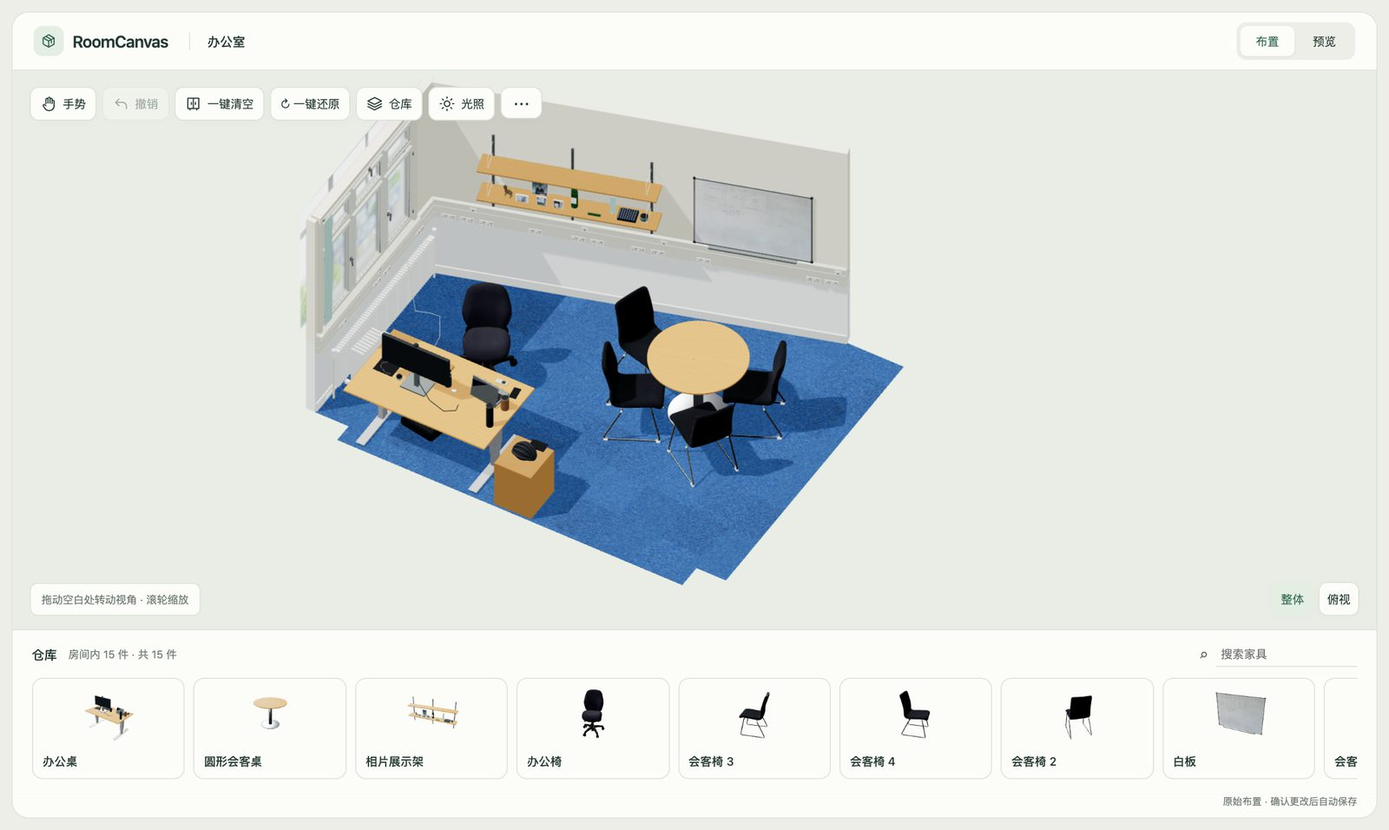
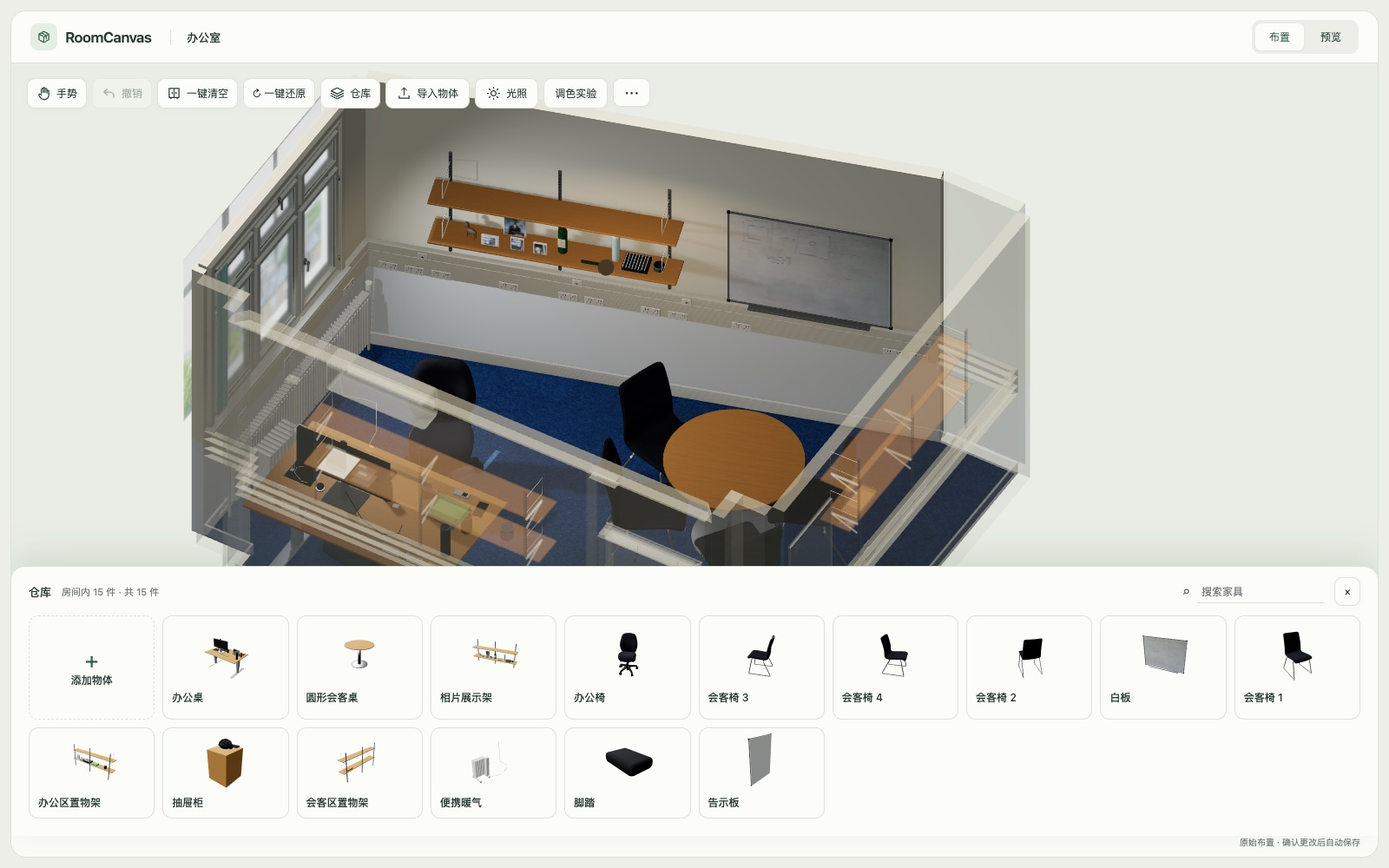
docs: a fuller README, handoff for #26–#29, a project-wide check; the import-lighting probe renders only the object (#30)
README rewritten in the style of common open-source projects (features, office screenshots, quick start for every part, controls, roadmap, contributors); the LiteReality-Agent changes move to docs/ROOM_RECONSTRUCTION.md. HANDOFF covers #26–#29, the 7862 restart and the 2026-10-24 check. The lab-only lightResponseProbe now renders only the probed object, so check_import_lighting.mjs passes again.

diff --git a/web/editor/scene-editor.js b/web/editor/scene-editor.js
@@ -2163,12 +2163,15 @@ function installLightingLab() {
       const p = box.getCenter(new THREE.Vector3()).project(camera);
       const lights = scene.children.filter(object => object.isLight), intensities = lights.map(light => light.intensity), environment = scene.environment;
       const frame = () => {renderer.render(scene,camera); return renderer.domElement.toDataURL('image/png');};
+      // Measure the object alone: lit see-through walls or furniture in front would respond to the lights.
+      const own = new Set(); entities.get(id).group.traverse(object => own.add(object));
+      const hidden = []; scene.traverse(object => {if (object.isMesh && object.visible && !own.has(object)) {object.visible = false; hidden.push(object);}});
       try {
         const lit = frame();
         lights.forEach(light => {light.intensity=0;}); scene.environment=null;
         const dark=frame(), size=renderer.getDrawingBufferSize(new THREE.Vector2());
         return {lit,dark,center:[Math.round((p.x*.5+.5)*size.x),Math.round((-p.y*.5+.5)*size.y)]};
-      } finally {lights.forEach((light,index) => {light.intensity=intensities[index];});scene.environment=environment;renderer.shadowMap.needsUpdate=true;requestRender();}
+      } finally {for (const object of hidden) object.visible = true; lights.forEach((light,index) => {light.intensity=intensities[index];});scene.environment=environment;renderer.shadowMap.needsUpdate=true;requestRender();}
     },
     metrics: () => renderMetrics.snapshot(),
     resetMetrics: () => renderMetrics.reset(),

diff --git a/web/editor/index.html b/web/editor/index.html
@@ -213,4 +213,4 @@
  <div class="rc-footer-status"><span id="status" class="rc-sr-only" aria-live="polite">正在加载房间模型…</span><span id="save-state">更改确认后自动保存</span></div>
 </footer>
 
-</div><script type="module" src="./editor.js?v=app-51"></script></body></html>
+</div><script type="module" src="./editor.js?v=app-52"></script></body></html>

diff --git a/web/editor/editor.js b/web/editor/editor.js
@@ -1,2 +1,2 @@
 // Entry point: sample-based UI with the existing office scene adapter.
-import './scene-editor.js?v=app-51';
+import './scene-editor.js?v=app-52';

diff --git a/README.md b/README.md
@@ -1,30 +1,103 @@
 <div align="center">
 
-<img src="web/icon.svg" width="64" alt="">
+<img src="web/icon.svg" width="72" alt="RoomCanvas">
 
 # RoomCanvas
 
 **扫描你的房间，在浏览器里按真实尺寸重新布置。**
 
-[快速开始](#快速开始) · [怎么做的](#怎么做的) · [文档](#文档)
+[![License](https://img.shields.io/badge/license-Apache--2.0-2f6b4f)](LICENSE) [![Three.js](https://img.shields.io/badge/Three.js-r180-1f2937)](https://threejs.org/) [![Python](https://img.shields.io/badge/Python-3-3776ab)](https://www.python.org/) [![Node.js](https://img.shields.io/badge/Node.js-22.12%2B-5fa04e)](https://nodejs.org/) [![Platform](https://img.shields.io/badge/platform-Web%20%7C%20Android-6b7280)](#快速开始)
+
+[功能](#功能) · [截图](#截图) · [快速开始](#快速开始) · [怎么用](#怎么用) · [工作原理](#工作原理) · [开发](#开发与测试) · [路线图](#路线图) · [文档](#文档)
 
 </div>
 
-![RoomCanvas 编辑器：LiteReality 官方样例办公室](docs/images/editor-office.jpg)
+![RoomCanvas 编辑器：LiteReality 官方样例办公室，底部是仓库](docs/images/editor-office.jpg)
 
-用 iPhone（LiDAR + RoomPlan）扫一遍房间，RoomCanvas 把它重建成带纹理、尺寸真实的三维模型，每件家具都是单独的、可以挪动的物体。再拍几张照片把新东西加进来，用鼠标或摄像头手势摆放，看放不放得下、好不好看。
+用 iPhone（LiDAR + RoomPlan）扫一遍房间，RoomCanvas 把它重建成带纹理、尺寸真实的三维模型，每件家具都是独立、可以挪动的物体。想买的新东西拍几张照片就能按真实大小加进来；用鼠标或摄像头手势摆放，碰撞和是否放稳实时检查，看放不放得下、好不好看。
+
+- **真实尺寸**：房间和家具来自扫描重建，新物体按一条实测边长标定，摆进去的就是真实大小。
+- **开箱即用**：网页编辑器是纯前端，没有构建步骤，有 Python 就能打开两个示例房间。
+- **双手操作**：浏览器里用摄像头识别手势，画面只在本机处理，不上传。
+- **一个仓库，从扫描到手机**：房间重建、物体重建、网页编辑器、手势、Android 漫游 App 都在这里。
 
 ## 功能
 
-- **真实尺寸的房间**：LiteReality 从扫描重建房间和家具，Agent 用 GPT-6 Astra 审图、建模、摆放；小物件逐件判断是舍弃、程序化建模还是用 TRELLIS 重建。
-- **每件家具都能动**：移动、旋转、贴墙、收进仓库、一键清空或还原；碰撞和是否放稳实时检查；可撤销，布局自动保存。
-- **门和柜门能打开**：切到“预览”，点一下门、柜门或窗。
-- **拍照添加物体**：在仓库里传 3 张以上照片，服务器抠图、重建，填一条实测边长就按真实大小放进房间。
-- **手势操作**：打开摄像头，左手比 1 / 2 / 3 / 4 切换移动、抬高、场景缩放、旋转；左手捏合环绕，右手操作家具，松手保留预览、竖拇指确认。骨架与指尖辅助显示，识别在本机完成，画面不上传。
+<table>
+<tr><td width="50%" valign="top">
+
+**🏠 房间重建**
+
+- LiteReality 从扫描重建房间结构和家具，Agent 用 GPT-6 Astra 审图、建模、摆放
+- 小物件逐件判断：舍弃、程序化建模，或用 TRELLIS 重建
+- 门、柜门、窗、升降桌带关节，能打开
+
+</td><td width="50%" valign="top">
+
+**🪑 布置编辑器**
+
+- 选中家具：移动、旋转、升降、换墙、收进仓库再放回
+- 逐三角面的碰撞和支撑检测，重网格的检查在后台线程
+- 一键清空 / 一键还原，撤销重做，布局自动保存，可导入导出 JSON
+- 近侧墙和挡视线的高家具自动变半透明
+
+</td></tr>
+<tr><td valign="top">
+
+**📷 拍照添加物体**
+
+- 仓库里“添加物体”：上传照片 → 抠图确认 → 服务器重建
+- 预览里看 X / Y / Z 坐标轴，填一条实测边长就按真实大小放进房间
+- 重建在 GPU 服务器上跑，关掉对话框、刷新页面都不影响
+
+</td><td valign="top">
+
+**💡 光照**
+
+- 普通光照，以及早晨 / 中午 / 下午 / 夜间时段
+- 中央顶灯可开关、调照射角度，按房间记住
+- 环境光、阴影和静态环境遮蔽（AO），静止时才补算
+- 曝光、白平衡、对比度、饱和度调色（实验）
+
+</td></tr>
+<tr><td valign="top">
+
+**✋ 手势**
+
+- 左手比 1 / 2 / 3 / 4 切换移动、抬高、缩放、旋转
+- 右手捏住家具拖动，竖起大拇指确认放下
+- 左手捏合环绕视角，双手捏合缩放场景
+- 编辑器内置，不用额外安装
+
+</td><td valign="top">
+
+**📱 Android 漫游**
+
+- 导入房间模型，横屏第一人称在房间里走一圈
+- 方向键移动、滑屏转向，0.5× / 1× / 2× 速度
+- 点柜门、窗、门开关
+
+</td></tr>
+</table>
+
+## 截图
+
+<table>
+<tr>
+<td width="50%"><img src="docs/images/office-placement.jpg" alt="摆放家具"><br><sub><b>摆放</b>：选中办公椅，悬浮预览、摇杆移动、圆盘旋转，标出落点</sub></td>
+<td width="50%"><img src="docs/images/office-preview.jpg" alt="预览模式"><br><sub><b>预览</b>：点一下就打开窗户、升起升降桌，桌上的东西跟着动</sub></td>
+</tr>
+<tr>
+<td><img src="docs/images/office-night.jpg" alt="夜间光照"><br><sub><b>夜间</b>：日光关掉，中央顶灯照亮房间</sub></td>
+<td><img src="docs/images/add-object.jpg" alt="添加物体"><br><sub><b>添加物体</b>：照片 → 抠图 → 重建 → 尺寸，四步放进房间</sub></td>
+</tr>
+</table>
+
+截图都用 LiteReality 官方样例办公室；另一个示例房间 `room3` 是私人卧室，不放在这里。
 
 ## 快速开始
 
-只看网页不需要安装任何东西，有 Python 3 就行：
+### 1. 打开网页（只需要 Python 3）
 
 ```bash
 git clone https://github.com/innovationasuna/RoomCanvas.git
@@ -32,52 +105,154 @@ cd RoomCanvas
 python3 web/scripts/serve.py
 ```
 
-打开 <http://127.0.0.1:7880/web/>，选一个示例房间（卧室 `room3`、办公室 `office`）开始布置。
+打开 <http://127.0.0.1:7880/web/>，选一个示例房间：卧室 `room3` 或办公室 `office`。布局存在浏览器里，刷新不会丢。
 
-“添加物体”和“导入物体”需要连接 ViewForge 后端（物体重建服务，跑在 GPU 服务器上），默认通过 SSH 隧道 `127.0.0.1:7865`，见 [物体重建说明](docs/OBJECT_RECONSTRUCTION.md)。
+### 2. 连接物体重建服务（可选）
 
-## 怎么做的
+“添加物体”和“导入物体”要连到物体重建后端（跑在 GPU 服务器上）。`serve.py` 默认把这些请求转给本机 `127.0.0.1:7865`，用 SSH 隧道接过去：
+
+```bash
+ssh -N -L 127.0.0.1:7865:<后端监听地址>:7862 <SSH 主机>
+```
+
+后端怎么部署见 [物体重建说明](docs/OBJECT_RECONSTRUCTION.md)。不连也能正常布置房间原有的家具。
+
+### 3. 手势
+
+在编辑器工具栏点 **手势**，允许摄像头即可，识别代码已经打包在 `web/vendor/gesture/`。要调试独立的识别页：
+
+```bash
+sh scripts/gesture.sh install   # 第一次，需要 Node.js 22.12+
+sh scripts/gesture.sh dev       # 打开 http://127.0.0.1:8800/roomcanvas.html
+```
+
+### 4. Android App
+
+```bash
+cd android-app
+./gradlew :app:assembleDebug    # JDK 17 + Android SDK，产出 app/build/outputs/apk/debug/
+```
+
+装到手机上，导入 `samples/office/Room.glb` 之类的房间模型即可。华为手机可用 AR Engine 的运动跟踪；其他手机提示一次后照常用方向键漫游。
+
+### 5. 重建自己的房间
+
+在 GPU 服务器上从手机扫描跑一遍 LiteReality + Astra，产出 `Room.glb`，再用 `web/scripts/room_objects.py` 生成物体清单。完整步骤见 [房间重建](docs/ROOM_RECONSTRUCTION.md)。
+
+## 怎么用
+
+### 鼠标和键盘
+
+| 操作 | 作用 |
+|---|---|
+| 拖动空白处 / 滚轮 | 转动视角 / 缩放 |
+| 点家具或仓库卡片 | 选中，开始摆放：跟着鼠标走，单击锁定后用摇杆、圆盘、升高 / 降低微调 |
+| `R` | 摆放时旋转 |
+| 方向键、`PageUp` / `PageDown` | 选中的家具逐步挪动、升降 |
+| `Enter` / `Esc` | 放置并落下 / 取消 |
+| `Ctrl`/`⌘` + `Z`，加 `Shift` | 撤销，重做 |
+| `/` | 打开仓库并搜索家具 |
+| 右上角“预览” | 点门、柜门、窗开合；回“布置”全部关上 |
+| 右下角“整体” / “俯视” | 切换视角 |
+
+### 手势
+
+| 手 | 动作 | 作用 |
+|---|---|---|
+| 左手 | 比 1 / 2 / 3 / 4 | 切换模式：移动 / 抬高 / 场景缩放 / 旋转 |
+| 左手 | 捏合拖动 | 环绕视角，可以和右手同时进行 |
+| 右手 | 捏住家具或仓库卡片拖动 | 移动、抬高或旋转；松手后家具停成预览 |
+| 右手 | 竖起大拇指约 0.5 秒 | 确认放置（放置按钮和 `Enter` 也可以） |
+| 双手 | 缩放模式下同时捏合，拉开 / 靠近 | 放大 / 缩小场景 |
+
+手指向按钮捏合就是点击。仓库默认收起，要先捏顶部的“仓库”按钮再拖卡片。手跟丢时操作冻结，回来后松手重新抓。完整说明见 [手势接入](gesture/docs/roomcanvas-integration.md)。
+
+### 网址参数
+
+| 参数 | 作用 |
+|---|---|
+| `?room=<id>` | 打开 `web/rooms.json` 里的房间；`?scene=<目录>` 打开任意房间目录 |
+| `&time=balanced\|morning\|noon\|afternoon\|night` | 光照时段，默认 `noon` |
+| `&lighting=off` | 完整的原始光照，用来对比 |
+| `&ao=off` / `&ao=n8ao` | 关闭环境遮蔽 / 改用 N8AO |
+| `&indoor=off` | 打开时关掉顶灯 |
+
+## 工作原理
 
 ```mermaid
 flowchart LR
   scan["房间扫描<br/>LiDAR + RoomPlan"] --> room["房间重建<br/>LiteReality + Astra"]
   room --> glb["Room.glb<br/>room_objects.json"]
-  photos["物体照片"] --> object["物体重建<br/>ViewForge：BiRefNet + DA3 + MV-SAM3D"]
+  photos["物体照片"] --> object["物体重建<br/>BiRefNet + DA3 + MV-SAM3D"]
   glb --> editor["网页编辑器<br/>Three.js"]
   object --> editor
   camera["摄像头"] --> gesture["手势识别<br/>MediaPipe"] --> editor
+  glb --> app["Android 漫游 App<br/>SceneView"]
 ```
 
-| 目录 | 做什么 |
-|---|---|
-| [`room-reconstruction/`](room-reconstruction/) | 房间重建：[LiteReality-Agent](https://github.com/LiteReality/LiteReality-Agent) 官方代码，Agent 改用 Codex（GPT-6 Astra），加了 3090 运行脚本和小物件这一步 |
-| [`object-reconstruction/`](object-reconstruction/) | 物体重建（ViewForge）：照片 → 抠图 → 多视角重建 → 尺寸标定，无界面的重建/标定 API；旧界面在 `legacy/` 弃用归档 |
-| [`web/`](web/) | RoomCanvas 网站：房间主页、编辑器、本机服务 `serve.py` |
-| [`gesture/`](gesture/) | 浏览器手势识别；编辑器内置的识别代码从这里打包 |
-| [`samples/`](samples/) | 两个示例房间：`room3`（手机扫描的卧室）、`office`（LiteReality 官方样例） |
+每个房间就是一个目录里的两个文件：`Room.glb`（重建出的模型）和 `room_objects.json`（哪些是墙、门窗、固定设施，哪些是能挪的家具，哪些东西一起动，哪些部件能打开）。编辑器只读这两个文件，所以任何按同样格式导出的房间都能打开。
+
+| 模块 | 做什么 | 技术 |
+|---|---|---|
+| [`room-reconstruction/`](room-reconstruction/) | 房间重建，加了 3090 运行脚本和小物件这一步 | [LiteReality-Agent](https://github.com/LiteReality/LiteReality-Agent)、Codex（GPT-6 Astra）、Blender、TRELLIS.2 |
+| [`object-reconstruction/`](object-reconstruction/) | 物体重建（ViewForge）：照片 → 抠图 → 多视角重建 → 尺寸标定，只提供 API | Starlette、BiRefNet、DA3、MV-SAM3D |
+| [`web/`](web/) | 主页、布置编辑器、本机服务 `serve.py` | Three.js r180，无构建 |
+| [`gesture/`](gesture/) | 浏览器手势识别，编辑器内置的识别代码从这里打包 | TypeScript、Vite、MediaPipe |
+| [`android-app/`](android-app/) | Android 房间漫游 | Kotlin、SceneView / Filament、华为 AR Engine |
+| [`samples/`](samples/) | 示例房间：`room3`（手机扫描的卧室）、`office`（LiteReality 官方样例） | |
+
+## 开发与测试
+
+网页不用装依赖（Node 24、Python 3）：
+
+```bash
+node --test 'web/editor/tests/*.mjs'                         # 编辑器单测
+python3 -m unittest discover -s web/scripts                  # 本机服务、物体清单
+node web/scripts/check_room.mjs --scene-dir samples/office   # 用真实模型检查碰撞、支撑、关节
+```
+
+手势、物体重建 API、房间重建和 Android 的检查命令，以及分支和合并流程，见 [参与开发](CONTRIBUTING.md)。CI 会扫描全部历史里的密钥，再跑房间重建、网页、物体 API 和手势四组检查。
+
+## 路线图
+
+- [x] 扫描 → 真实尺寸的房间（LiteReality + Astra）
+- [x] 网页里布置家具：碰撞、支撑、撤销、自动保存
+- [x] 门、柜门、窗能打开
+- [x] 拍几张照片添加物体，按实测尺寸放进房间
+- [x] 摄像头双手手势
+- [x] 时段光照、顶灯和环境遮蔽
+- [x] Android 第一人称漫游
+- [ ] 补拍：给已重建的物体补照片再重建
+- [ ] 清空房间，导出空房间
+- [ ] 给一个商品链接，找多视角图和尺寸重建
+- [ ] 网页上传扫描，服务器排队重建房间，并降低成本
+- [ ] 手机 App 直接扫描房间
 
 ## 文档
 
-- [网页说明](web/README.md)：编辑器的操作、手势、导入和添加物体，开发和测试
-- [房间重建](docs/ROOM_RECONSTRUCTION.md)：在 3090 上重建一个房间、小物件这一步、接到网页
-- [物体重建与手势](docs/OBJECT_RECONSTRUCTION.md)：ViewForge 物体后端、标定接口、SSH 隧道和 RoomCanvas 手势
-- [光影增强](web/README.md#通用光影增强)：光照档位、环境光、静态 AO 和验收；[光影调研](web/README.md#光影调研)：开源方案、版本兼容性、低耦合接入方式和实验任务
-- [参与开发](CONTRIBUTING.md)：分支、检查、合并流程
-- [交接文档](docs/HANDOFF.md)：当前进度、服务器目录和待办
-
-## 对 LiteReality-Agent 改了什么
-
-基线是官方 `28ffe1f4`（2026-10-03），即本仓库的第一个提交，原样放在 `room-reconstruction/`。之后：
-
-- **所有 Agent 改用 Codex**：默认 provider 从 claude 改为 codex（`models.env`、`settings.py`、`agent/providers/base.py`）；Codex 会话支持附图（`providers/codex.py`）；新增 `agent/providers/vision.py`，在建模路线分类、椅子分组、程序化完整性检查、布局 Agent 四处看图。provider 设回 claude 时仍走官方原来的代码。
-- **新增、不改官方文件**：3090 运行脚本 `room-reconstruction/server/`；小物件这一步 `pipeline/realism_authoring/small_objects/`（复用官方的证据图、参考图、TRELLIS 启动器和看图问答）。
-- **CI**：`.github/workflows/ci.yml` 先用 gitleaks 扫描全部历史里的密钥，再跑官方测试和网页测试。
-
-逐行改动看提交 2。
+| 文档 | 内容 |
+|---|---|
+| [网页说明](web/README.md) | 编辑器的全部操作、房间文件格式、光照参数和调研、测试、已知问题 |
+| [房间重建](docs/ROOM_RECONSTRUCTION.md) | 在 GPU 服务器上重建一个房间、小物件这一步、接到网页，以及对 LiteReality-Agent 的改动 |
+| [物体重建](docs/OBJECT_RECONSTRUCTION.md) | 物体后端的部署、接口和 SSH 隧道 |
+| [手势接入](gesture/docs/roomcanvas-integration.md) | 手势识别、协议和操作细节 |
+| [参与开发](CONTRIBUTING.md) | 分支、检查、合并流程 |
+| [交接文档](docs/HANDOFF.md) | 当前进度、服务器目录和待办 |
 
 ## 隐私
 
-仓库是私有的。**`samples/room3` 是私人卧室**，`Room.glb` 和缩略图来自实拍照片，只给协作者用，不要转发；仓库要公开前必须先从历史里删掉它。原始扫描、照片、含相机轨迹的 `room_layout.json` 都不进仓库。
+仓库是私有的。**`samples/room3` 是私人卧室**，`Room.glb` 和缩略图来自实拍照片，只给协作者用，不要转发；仓库要公开前必须先从历史里删掉它。原始扫描、照片、含相机轨迹的 `room_layout.json` 都不进仓库。手势识别只在本机浏览器里做，摄像头画面不上传。
+
+## 贡献者
+
+<table>
+<tr>
+<td align="center"><a href="https://github.com/innovationasuna"><img src="https://github.com/innovationasuna.png" width="64" alt=""><br><sub>innovationasuna</sub></a></td>
+<td align="center"><a href="https://github.com/jbykkk"><img src="https://github.com/jbykkk.png" width="64" alt=""><br><sub>jbykkk</sub></a></td>
+<td align="center"><a href="https://github.com/AWHYhuh"><img src="https://github.com/AWHYhuh.png" width="64" alt=""><br><sub>AWHYhuh</sub></a></td>
+<td align="center"><a href="https://github.com/HausenWu"><img src="https://github.com/HausenWu.png" width="64" alt=""><br><sub>HausenWu</sub></a></td>
+</tr>
+</table>
 
 ## 致谢与许可
 
@@ -87,4 +262,5 @@ RoomCanvas 以 [Apache License 2.0](LICENSE) 发布，署名见 [NOTICE](NOTICE)
 - ViewForge / MV-SAM3D 及其依赖：见 [`object-reconstruction/LICENSE`](object-reconstruction/LICENSE)
 - [TRELLIS.2](https://github.com/microsoft/TRELLIS.2)：小物件重建
 - [MediaPipe Tasks Vision](https://ai.google.dev/edge/mediapipe)（Apache-2.0）：手势识别，见 [`gesture/README.md`](gesture/README.md)、[`gesture/docs/sources.md`](gesture/docs/sources.md) 和 [`web/vendor/gesture/README.md`](web/vendor/gesture/README.md)
-- [Three.js](https://threejs.org/)（MIT）：网页渲染，在 `web/vendor/`
+- [Three.js](https://threejs.org/)（MIT）：网页渲染，在 `web/vendor/`；[N8AO](https://github.com/N8python/n8ao)（CC0）：可选的环境遮蔽，见 [`web/vendor/n8ao/README.md`](web/vendor/n8ao/README.md)
+- [SceneView](https://github.com/SceneView/sceneview-android)（Apache-2.0）和 [Filament](https://github.com/google/filament)：Android App 渲染

diff --git a/docs/ROOM_RECONSTRUCTION.md b/docs/ROOM_RECONSTRUCTION.md
@@ -1,6 +1,6 @@
 # 房间重建（LiteReality + Astra）
 
-把手机扫描（iPhone LiDAR + RoomPlan）重建成真实尺寸、带纹理的 `Room.glb`，再接到网页编辑器上。代码在 [`room-reconstruction/`](../room-reconstruction/)（LiteReality-Agent 官方代码，Agent 改用 Codex / GPT-6 Astra，改动见根目录 [README](../README.md#对-litereality-agent-改了什么)）。在 3090 服务器上运行，目录和环境见 [交接文档](HANDOFF.md)。
+把手机扫描（iPhone LiDAR + RoomPlan）重建成真实尺寸、带纹理的 `Room.glb`，再接到网页编辑器上。代码在 [`room-reconstruction/`](../room-reconstruction/)（LiteReality-Agent 官方代码，Agent 改用 Codex / GPT-6 Astra，改动见下文[对 LiteReality-Agent 改了什么](#对-litereality-agent-改了什么)）。在 3090 服务器上运行，目录和环境见 [交接文档](HANDOFF.md)。
 
 ## 运行
 
@@ -52,3 +52,13 @@ $PY room-reconstruction/server/run_room.py --small-objects runs/<运行>/pipelin
 5. **对比图**：同一相机渲染“照片 | 原模型 | 重建”三联图放进 `overview.jpg`，供人检查；不再让 Astra 二次检查。
 
 结果在 `<新目录>/room_preview/`（`Room.blend`、`Room.glb`、`room_layout.json`，重建的物件标 `"rebuilt": "trellis"`），每件的照片、渲染对比、Astra 的回答和费用在 `items.json`、`summary.md`、`overview.jpg`。中断后重跑同一命令会接着做。重建的物件在网页里单独可移动，放在家具上的会随家具移动。
+
+## 对 LiteReality-Agent 改了什么
+
+基线是官方 `28ffe1f4`（2026-10-03），即本仓库的第一个提交，原样放在 `room-reconstruction/`。之后：
+
+- **所有 Agent 改用 Codex**：默认 provider 从 claude 改为 codex（`models.env`、`settings.py`、`agent/providers/base.py`）；Codex 会话支持附图（`providers/codex.py`）；新增 `agent/providers/vision.py`，在建模路线分类、椅子分组、程序化完整性检查、布局 Agent 四处看图。provider 设回 claude 时仍走官方原来的代码。
+- **新增、不改官方文件**：3090 运行脚本 `room-reconstruction/server/`；小物件这一步 `pipeline/realism_authoring/small_objects/`（复用官方的证据图、参考图、TRELLIS 启动器和看图问答）。
+- **CI**：`.github/workflows/ci.yml` 先用 gitleaks 扫描全部历史里的密钥，再跑官方测试和网页测试。
+
+逐行改动看提交 2。

diff --git a/CONTRIBUTING.md b/CONTRIBUTING.md
@@ -9,14 +9,18 @@
    node web/scripts/check_room.mjs --scene-dir samples/room3
    # 重建（在 room-reconstruction/ 下）
    uv run ruff check . && uv run pytest -n auto
+   # 物体重建 API（在 object-reconstruction/ 下，CPU 即可，和 CI 同一组）
+   for suite in api assets dimensions objects masks capture runner cover_scene; do python -m unittest discover -s tests -p "test_${suite}.py"; done
+   # 手势（在 gesture/ 下）
+   npm ci && npm run typecheck && npm test && npm run check:resources && npm run build
+   # Android App（在 android-app/ 下，CI 不跑）
+   ./gradlew :app:testDebugUnitTest :app:assembleDebug
    ```
    改了网页界面的，本地打开看一眼，见 [README](README.md#快速开始)。
 3. 开 PR，写清改了什么、怎么验证的。CI 通过、仓库所有者确认后，squash 合并并删除分支。`main` 不能直接推送。
 
-导入完整历史的 `feat/integrate-viewforge` 是例外：审阅通过后应使用普通 merge commit，保留 ViewForge 和手势提交的父链；不要 squash 或 rebase 合并此分支。其他功能沿用上面的流程。
-
 注意：
 
-- `room-reconstruction/` 里的官方文件尽量少改，必须改的保持官方写法，并在 README 的“对 LiteReality-Agent 改了什么”里补一句。
+- `room-reconstruction/` 里的官方文件尽量少改，必须改的保持官方写法，并在 [房间重建](docs/ROOM_RECONSTRUCTION.md#对-litereality-agent-改了什么)的“对 LiteReality-Agent 改了什么”里补一句。
 - 新的扫描数据、照片、运行结果、重建模型权重、`.env` 不进仓库。已有 `samples/`、ViewForge 原上游公开示例，以及手势工程随版本提供的识别模型/WASM 资源保留，来源与规则见各模块 README。
 - 3090 上一个作业只用一张空闲 GPU，结果写到新目录，不覆盖旧结果。
